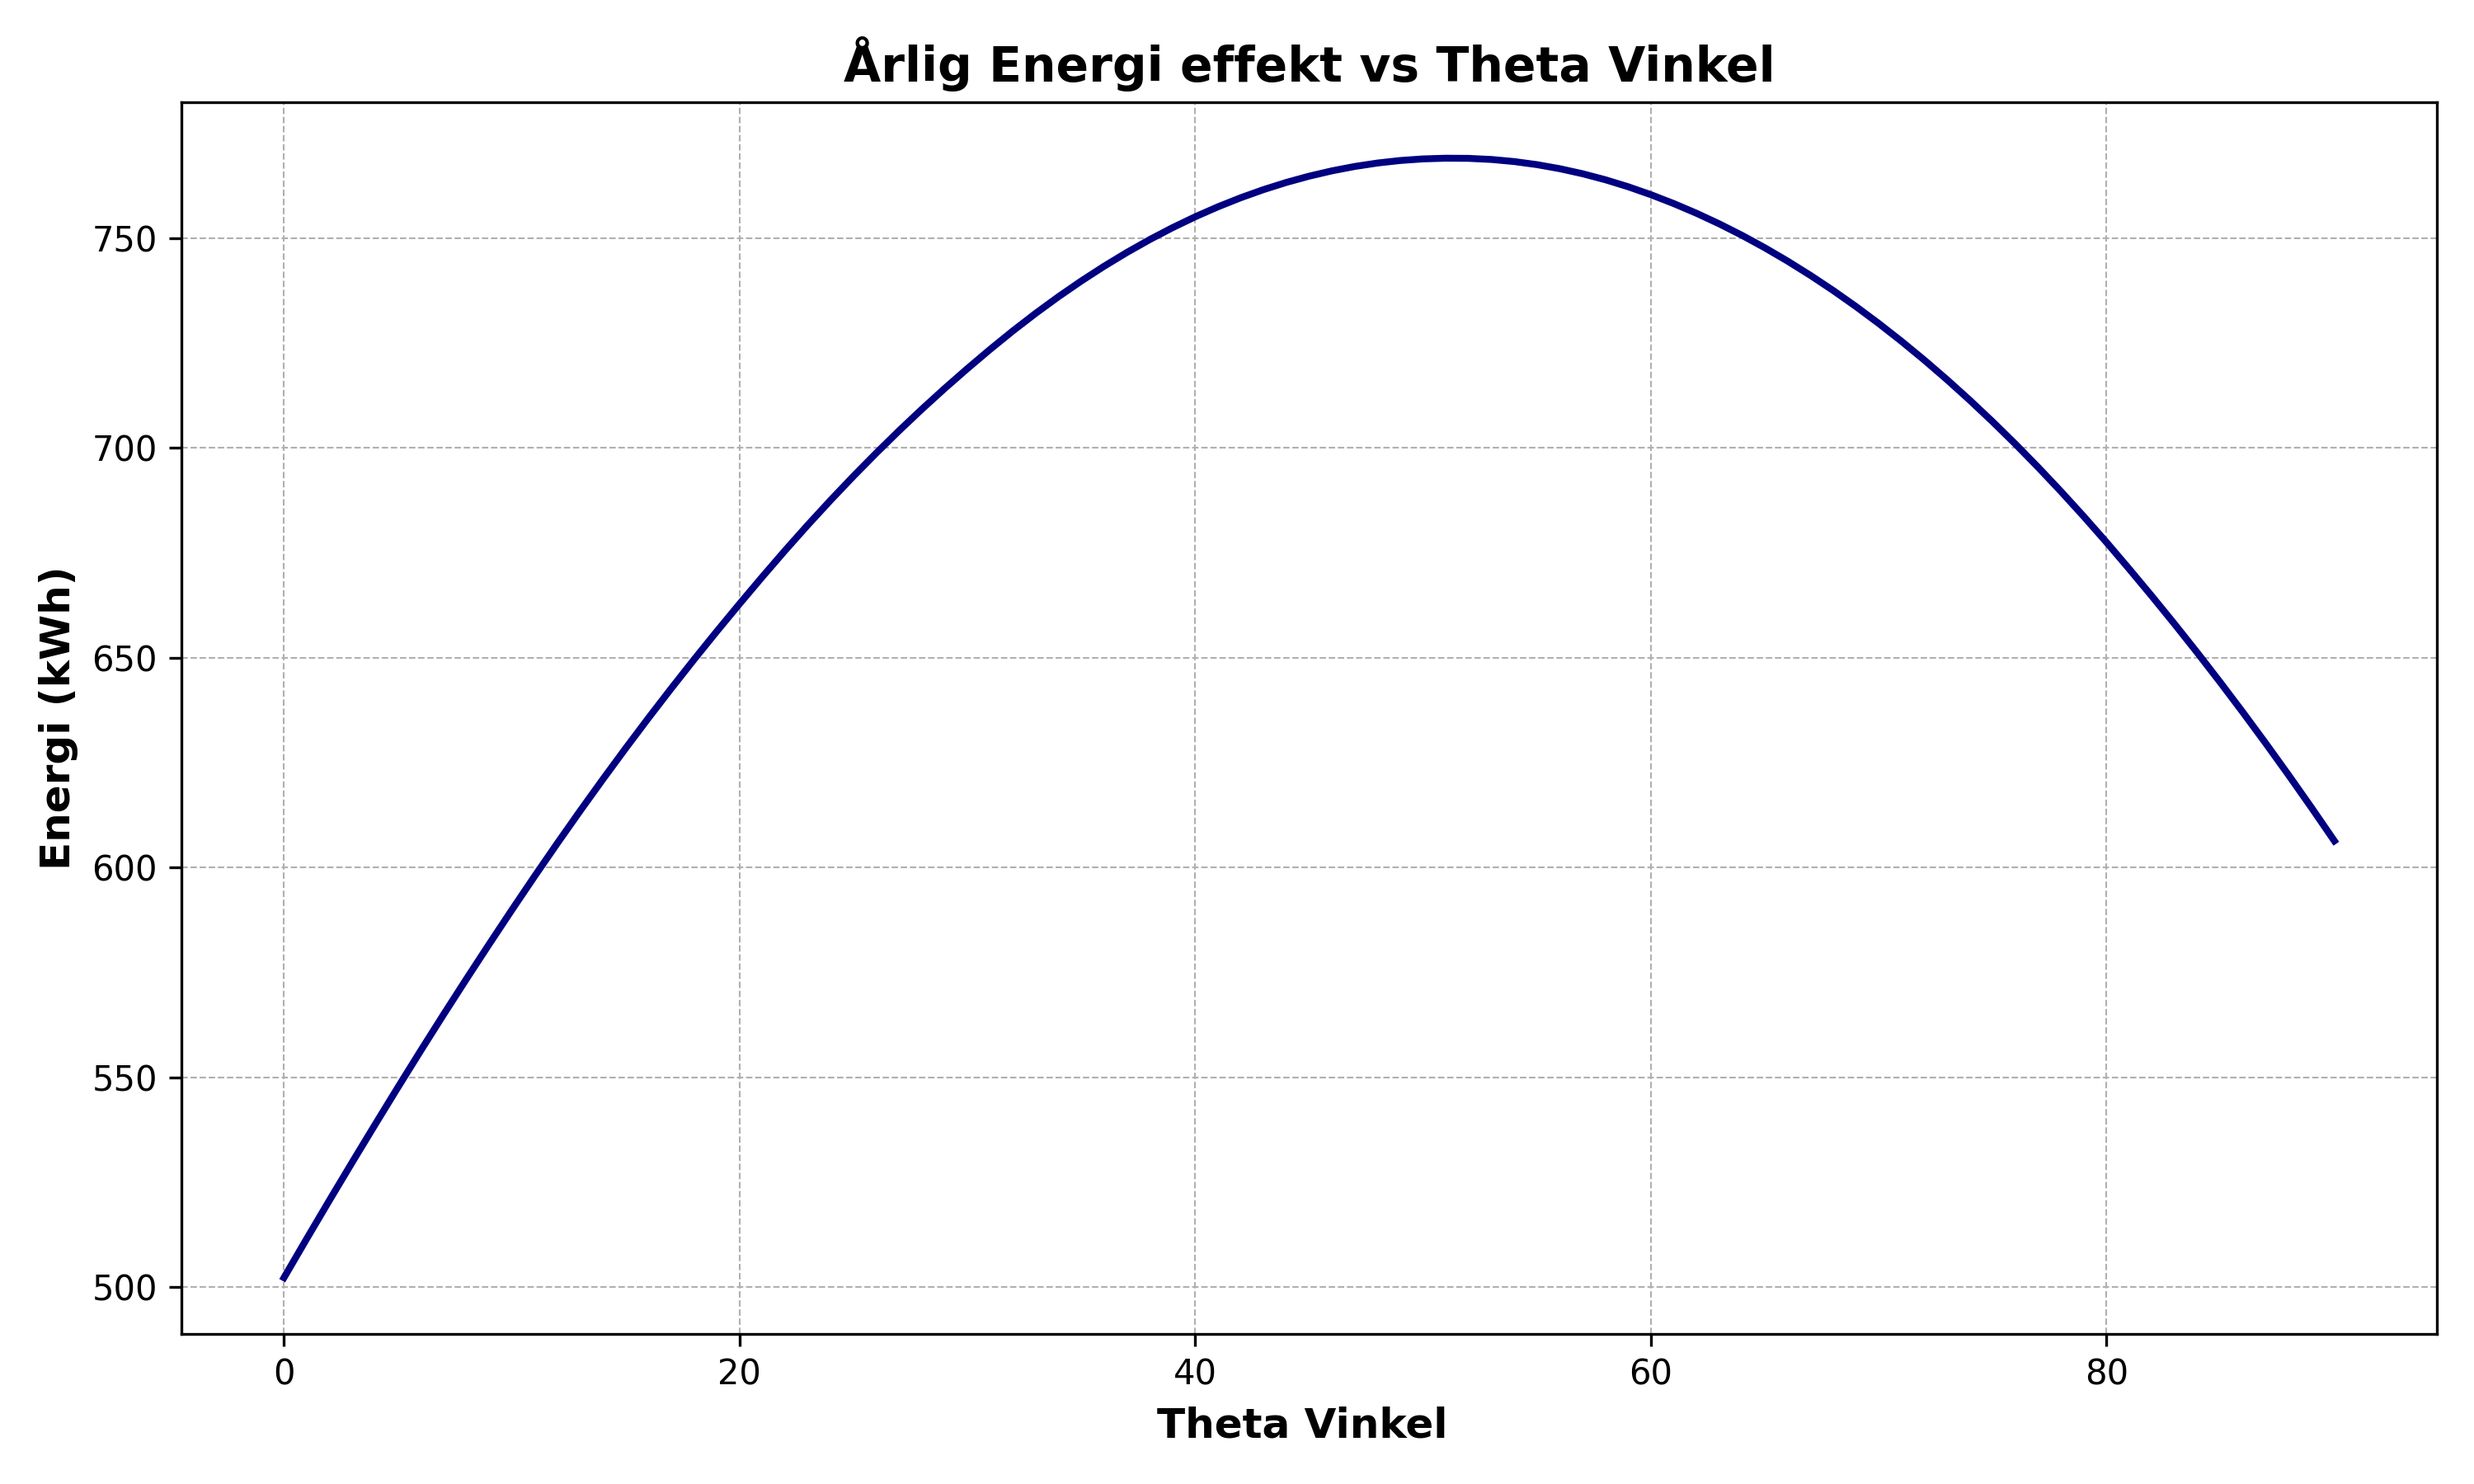
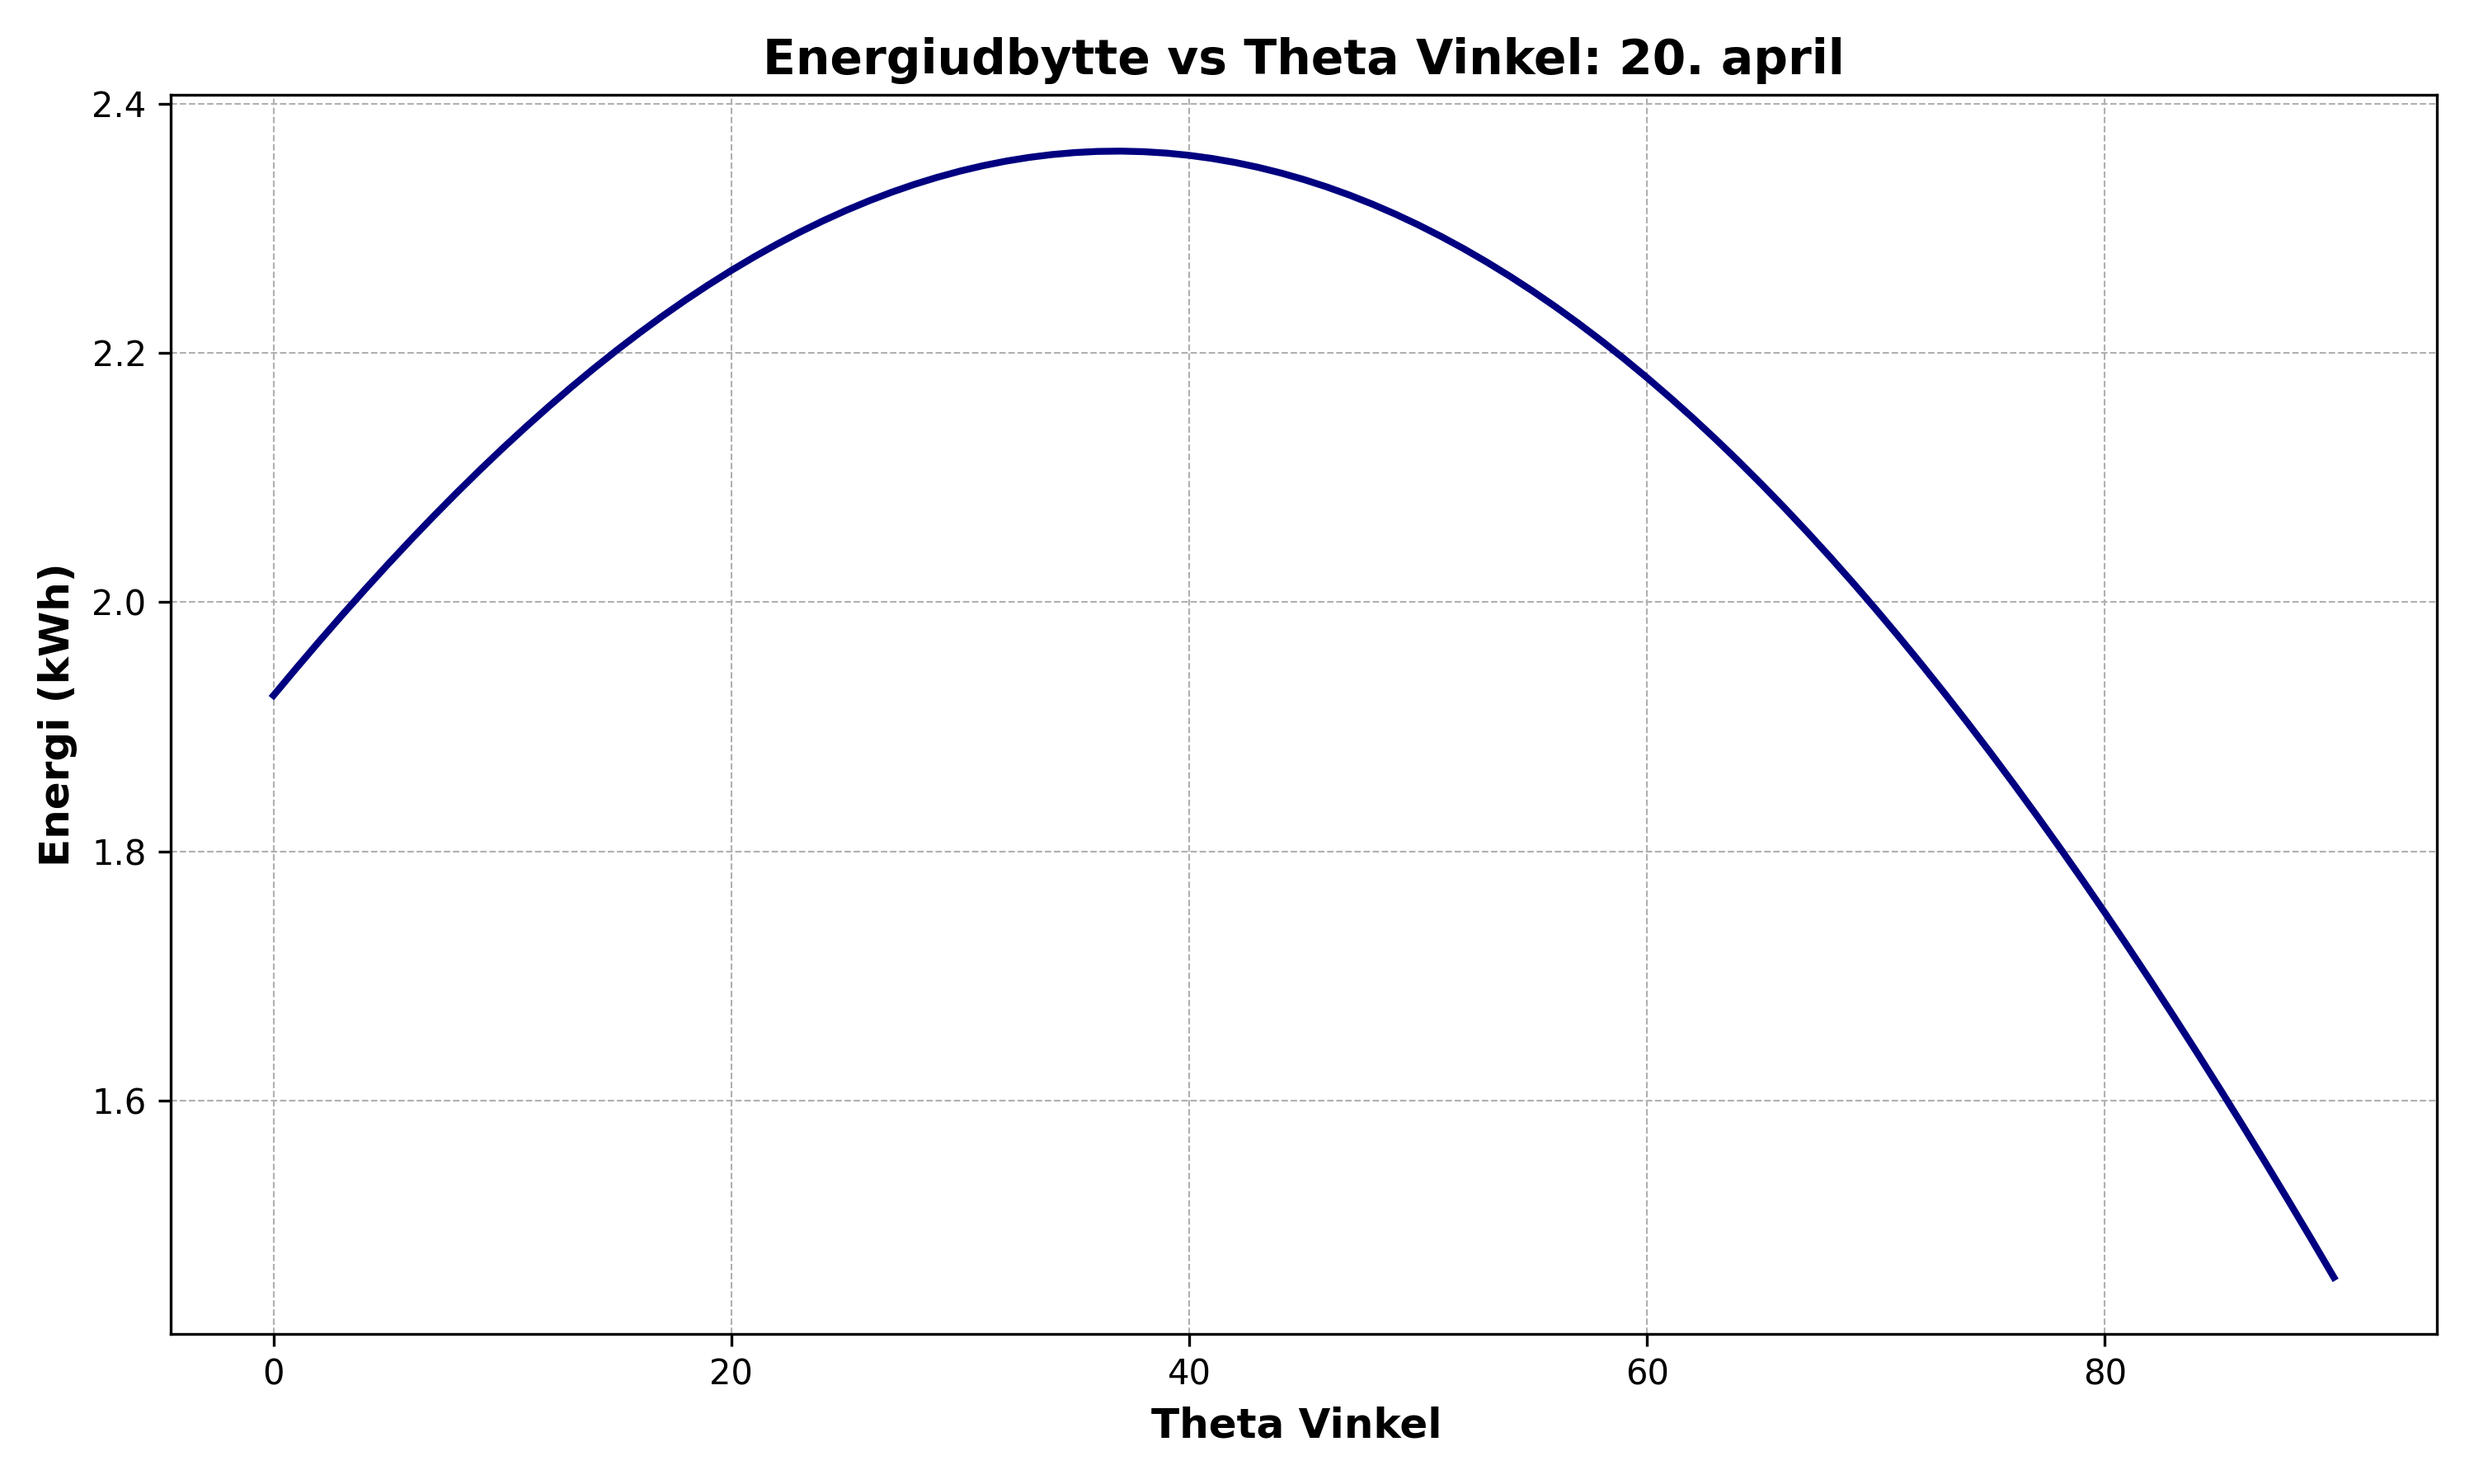
Vhanges

diff --git a/effekt_energi/effekt_ernergi.py b/effekt_energi/effekt_ernergi.py
@@ -174,7 +174,7 @@ elif time_interval == "day":
     period_seconds = 60
 
 # array of phi values including the max and min index
-phi_panel = np.linspace(np.deg2rad(175), np.deg2rad(175), 1)
+phi_panel = np.linspace(np.deg2rad(180), np.deg2rad(180), 1)
 # Array of theta values in radians from 0 to 90 degrees
 theta_panel = np.radians(np.arange(0, 91, 1))
 
@@ -201,10 +201,10 @@ def plot_energy_vs_theta(save: bool):
 
     # print(F_t)
     print(
-        f"Max value: {flux_total_arr[max_index]:.3f} kWh, at theta = {90 - np.rad2deg(theta_max)} degrees"
+        f"Max value: {flux_total_arr[max_index]:.3f} kWh, at theta = {np.rad2deg(theta_max)} degrees"
     )
     print(
-        f"Min value: {flux_total_arr[min_index]:.3f} kWh, at theta = {90 - np.rad2deg(theta_min)} degrees"
+        f"Min value: {flux_total_arr[min_index]:.3f} kWh, at theta = {np.rad2deg(theta_min)} degrees"
     )
 
     # Create the plot
@@ -228,7 +228,7 @@ def plot_energy_vs_theta(save: bool):
 
     # Show the plot
     if save:
-        plt.savefig("./img/energy_vs_theta_year_175.png", dpi=300)
+        plt.savefig("./img/energy_vs_theta_year.png", dpi=300)
     plt.show()
 
 

diff --git a/Solpositionsmodellering/Koordinatsystem.py b/Solpositionsmodellering/Koordinatsystem.py
@@ -71,19 +71,6 @@ med numeriske fejl, bør det give array([7.07106781e-01, 6.12323400e-17, 0.0])).
 Forklar solpanelets orientering og solens placering i de tre situationer."""
 
 
-# def solar_panel_projection(theta_sol, phi_sol, theta_panel, phi_panel):
-#     inner = np.zeros(theta_sol.size)
-#     for i, (theta_s, phi_s, theta_p, phi_p) in enumerate(
-#         zip(theta_sol, phi_sol, theta_panel, phi_panel)
-#     ):
-#         temp = sp.sin(theta_p) * sp.sin(theta_s) * sp.cos(phi_p - phi_s) + sp.cos(
-#             theta_p
-#         ) * sp.cos(theta_s)
-#         if temp > 0:
-#             inner[i] = temp
-#     return inner
-
-
 def solar_panel_projection(theta_sol, phi_sol, theta_panel, phi_panel):
     inner = np.zeros(theta_sol.size)
     for i, (theta_s, phi_s, theta_p, phi_p) in enumerate(
